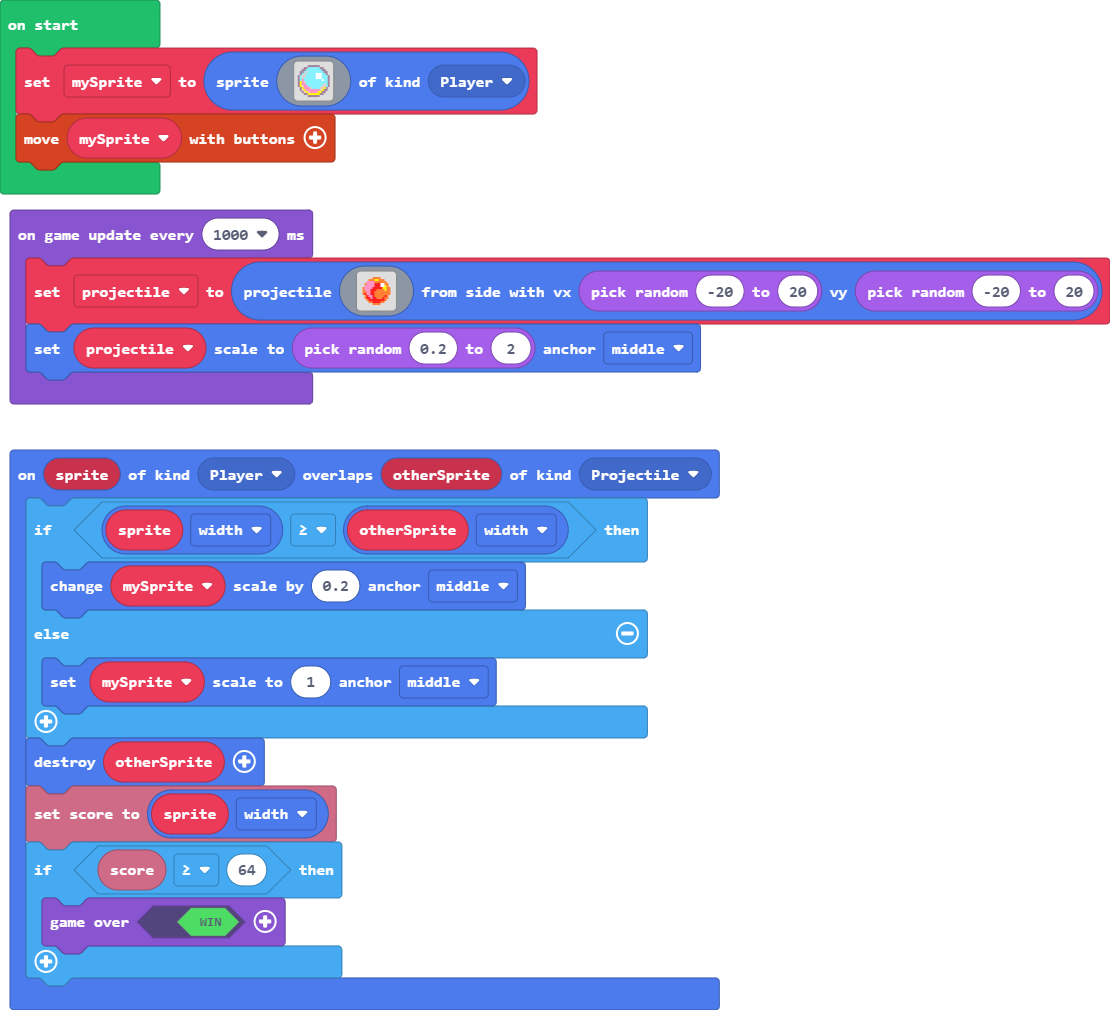
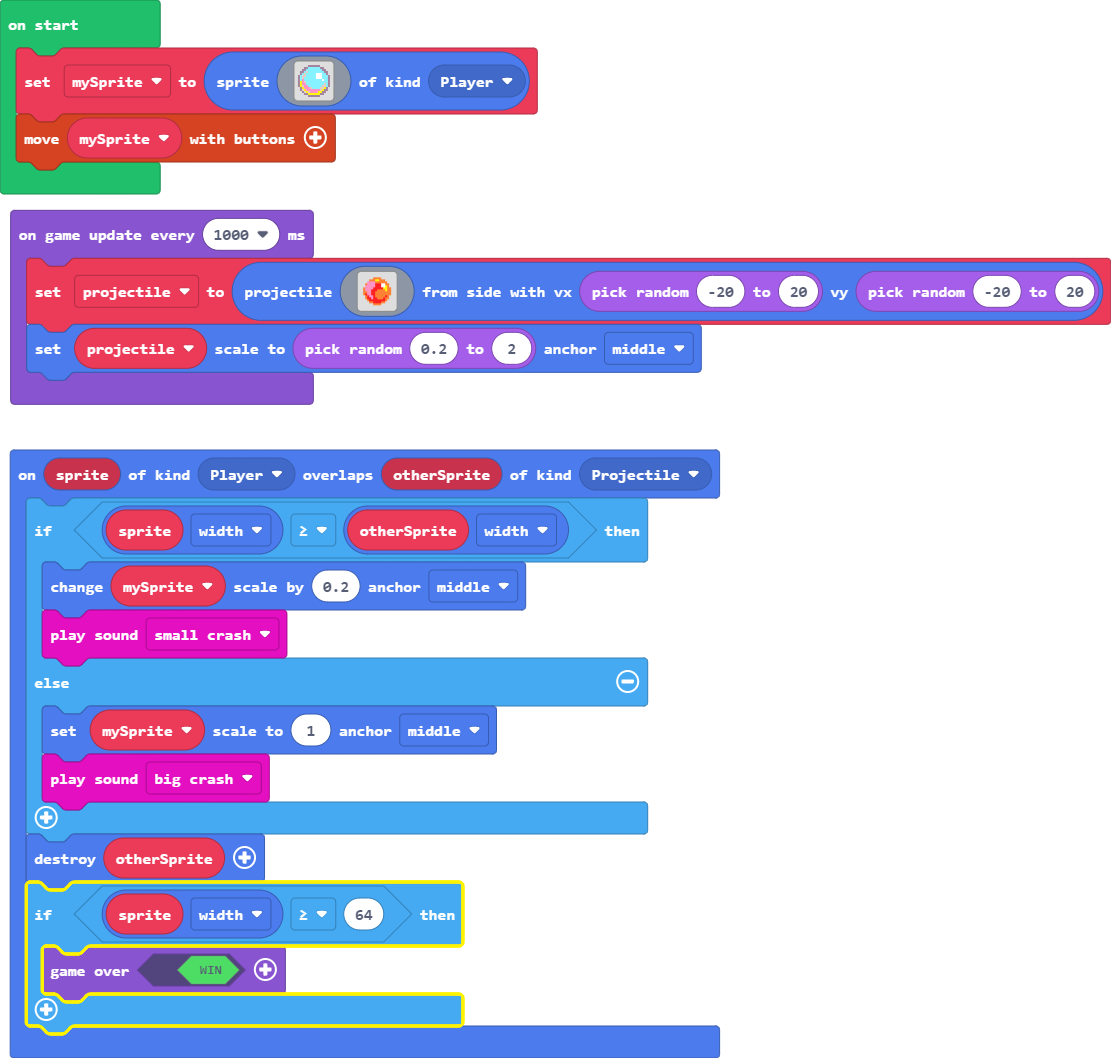
Remove score and add sound effects

Changed region(s): [[0.0, 0.0, 1.0, 0.9822]]

diff --git a/main.ts b/main.ts
@@ -1,12 +1,13 @@
 sprites.onOverlap(SpriteKind.Player, SpriteKind.Projectile, function (sprite, otherSprite) {
     if (sprite.width >= otherSprite.width) {
         mySprite.changeScale(0.2, ScaleAnchor.Middle)
+        music.smallCrash.play()
     } else {
         mySprite.setScale(1, ScaleAnchor.Middle)
+        music.bigCrash.play()
     }
     otherSprite.destroy()
-    info.setScore(sprite.width)
-    if (info.score() >= 64) {
+    if (sprite.width >= 64) {
         game.over(true)
     }
 })
